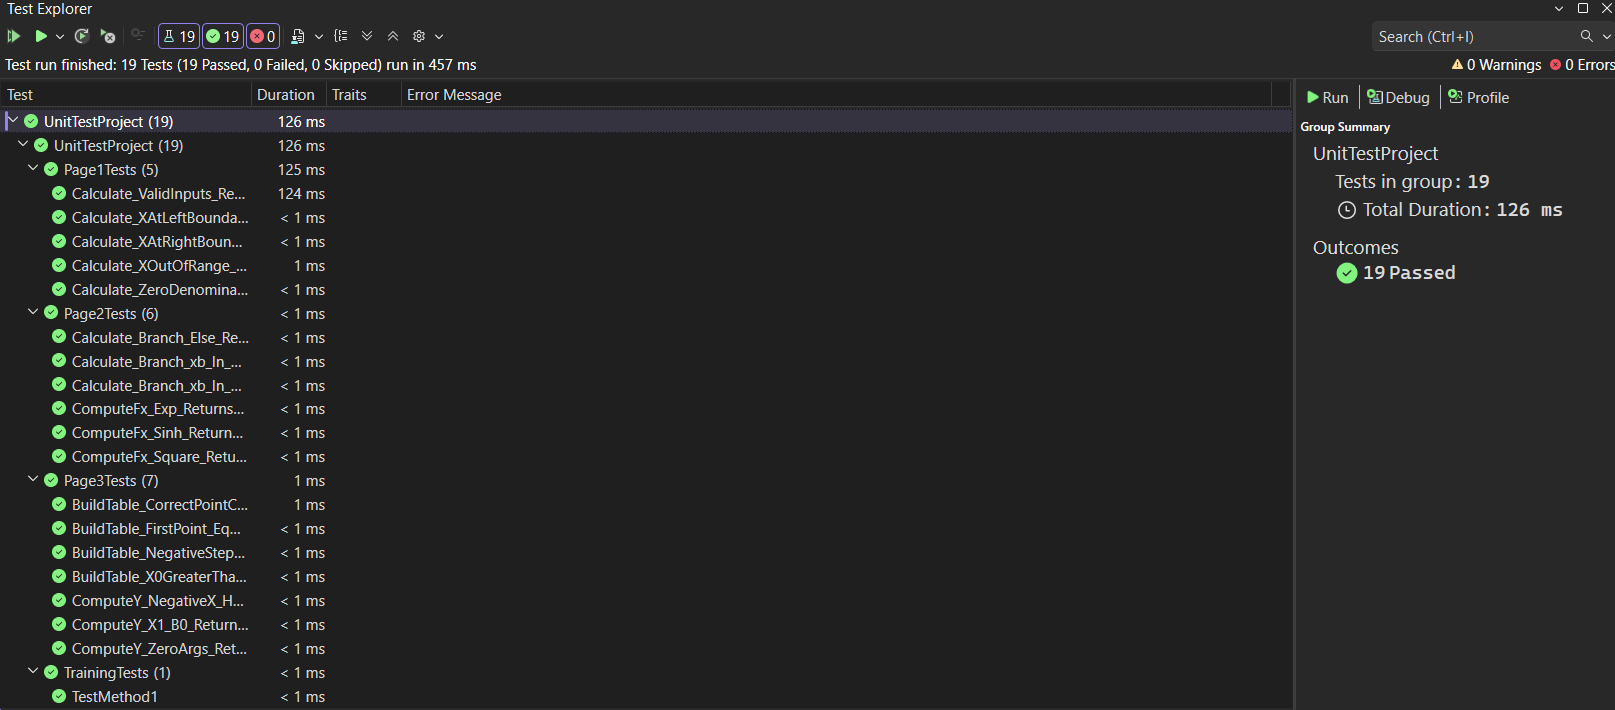
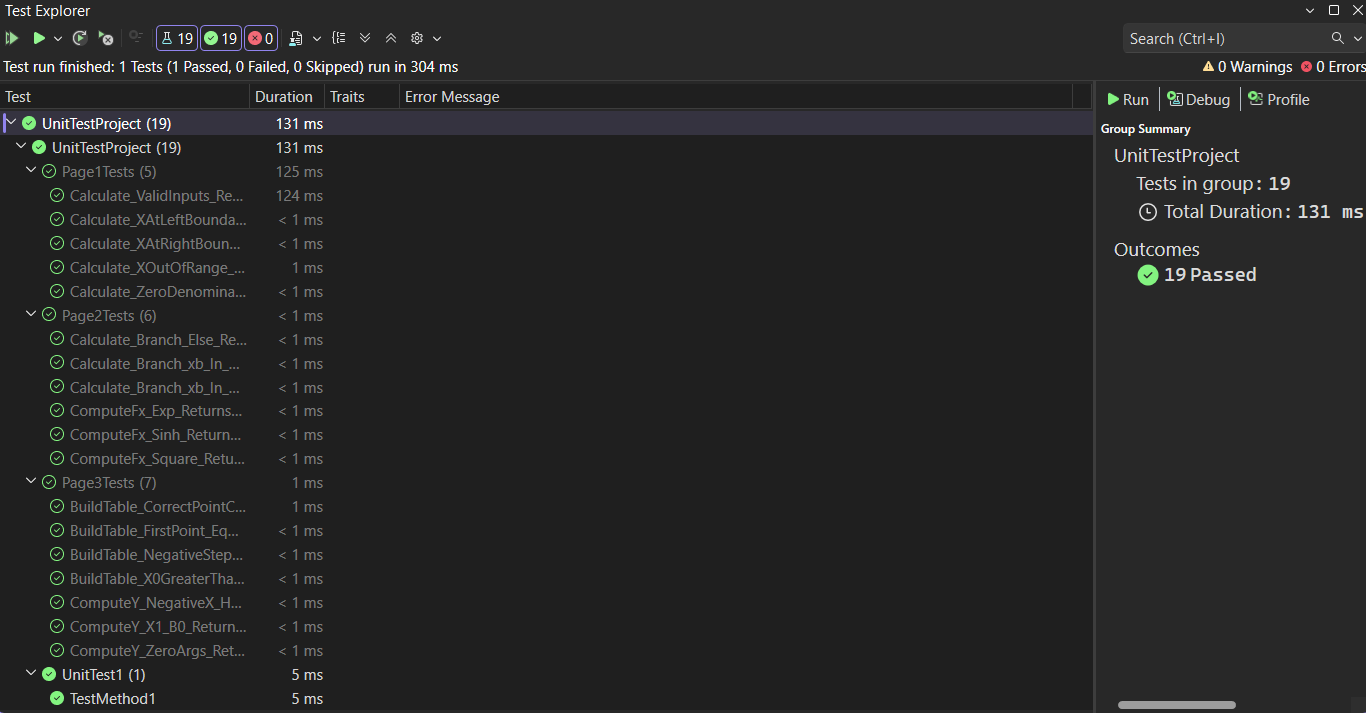
some fixes

diff --git a/UnitTestProject/UnitTest1.cs b/UnitTestProject/UnitTest1.cs
@@ -4,49 +4,21 @@ using PR4;
 
 namespace UnitTestProject
 {
-    // ===========================================================================
-    //  Тренировочный тест (из задания) — демонстрирует методы Assert
-    // ===========================================================================
-
-    /// <summary>
-    /// Тренировочный тест, демонстрирующий основные методы объекта <see cref="Assert"/>.
-    /// </summary>
     [TestClass]
-    public class TrainingTests
+    public class UnitTest1
     {
-        /// <summary>
-        /// Проверяет работу методов Assert: AreEqual, IsTrue, IsFalse, IsNull, IsNotNull.
-        /// <para>
-        /// Вывод: <br/>
-        /// — <c>Assert.AreEqual</c>  — проверяет равенство двух значений (с допуском delta для double). <br/>
-        /// — <c>Assert.IsTrue</c>   — проверяет, что условие истинно. <br/>
-        /// — <c>Assert.IsFalse</c>  — проверяет, что условие ложно. <br/>
-        /// — <c>Assert.IsNull</c>   — проверяет, что объект равен null. <br/>
-        /// — <c>Assert.IsNotNull</c>— проверяет, что объект не равен null.
-        /// </para>
-        /// </summary>
         [TestMethod]
         public void TestMethod1()
         {
-            // AreEqual: числа, строки, с допустимой погрешностью
-            Assert.AreEqual(4, 2 + 2);
-            Assert.AreEqual("hello", "hel" + "lo");
-            Assert.AreEqual(0.3, 0.1 + 0.2, 1e-10);   // delta — допуск для double
-
-            // IsTrue / IsFalse
-            Assert.IsTrue(5 > 3);
-            Assert.IsFalse(5 < 3);
-
-            // IsNull / IsNotNull
-            string? nullStr = null;
-            Assert.IsNull(nullStr);
-            Assert.IsNotNull("not null");
+            int res = 2 + 2;
+            Assert.AreEqual(res, 4);
+            Assert.AreNotEqual(res, 5);
+            Assert.IsFalse(res > 5);
+            Assert.IsTrue(res < 5);
         }
     }
 
-    // ===========================================================================
-    //  Тесты для Page1 — формула с arctg / arccos
-    // ===========================================================================
+    //  Тесты для Page1
 
     /// <summary>
     /// Модульные тесты для метода <see cref="Page1.Calculate"/>.
@@ -69,7 +41,6 @@ namespace UnitTestProject
         public void Calculate_ValidInputs_ReturnsExpected()
         {
             double result = Page1.Calculate(0.5, 1.0, 2.0);
-            // Проверяем диапазон — тест прошёл, если результат разумен
             Assert.IsTrue(result > -100 && result < 100,
                 $"Результат {result} вышел за ожидаемые рамки");
         }
@@ -82,7 +53,6 @@ namespace UnitTestProject
         [ExpectedException(typeof(DivideByZeroException))]
         public void Calculate_ZeroDenominator_ThrowsDivideByZero()
         {
-            // x=0, y=0 → znam = 0*z + 0 = 0
             Page1.Calculate(0.0, 0.0, 5.0);
         }
 
@@ -119,9 +89,7 @@ namespace UnitTestProject
         }
     }
 
-    // ===========================================================================
-    //  Тесты для Page2 — кусочная функция S(x, b, f)
-    // ===========================================================================
+    //  Тесты для Page2
 
     /// <summary>
     /// Модульные тесты для методов <see cref="Page2.Calculate"/> и <see cref="Page2.ComputeFx"/>.
@@ -130,8 +98,6 @@ namespace UnitTestProject
     public class Page2Tests
     {
         private const double Delta = 1e-4;
-
-        // --- ComputeFx ---
 
         /// <summary>
         /// Sinh при x=1: sh(1) ≈ 1.17520.
@@ -162,8 +128,6 @@ namespace UnitTestProject
             double result = Page2.ComputeFx(0.0, FunctionType.Exp);
             Assert.AreEqual(1.0, result, Delta);
         }
-
-        // --- Calculate: ветки условий ---
 
         /// <summary>
         /// Ветка x*b ∈ (1, 10): S = e^f(x).
@@ -214,9 +178,7 @@ namespace UnitTestProject
         }
     }
 
-    // ===========================================================================
-    //  Тесты для Page3 — таблица значений y = 9*(x + 15*∛(x³+b³))
-    // ===========================================================================
+    //  Тесты для Page3
 
     /// <summary>
     /// Модульные тесты для методов <see cref="Page3.ComputeY"/> и <see cref="Page3.BuildTable"/>.
@@ -225,8 +187,6 @@ namespace UnitTestProject
     public class Page3Tests
     {
         private const double Delta = 1e-3;
-
-        // --- ComputeY ---
 
         /// <summary>
         /// При x=0, b=0: val=0, cbrt=0 → y = 9*(0+0) = 0.
@@ -258,8 +218,6 @@ namespace UnitTestProject
             double result = Page3.ComputeY(-1.0, 0.0);
             Assert.AreEqual(-144.0, result, Delta);
         }
-
-        // --- BuildTable ---
 
         /// <summary>
         /// Нулевой или отрицательный шаг должен вызывать <see cref="ArgumentException"/>.
